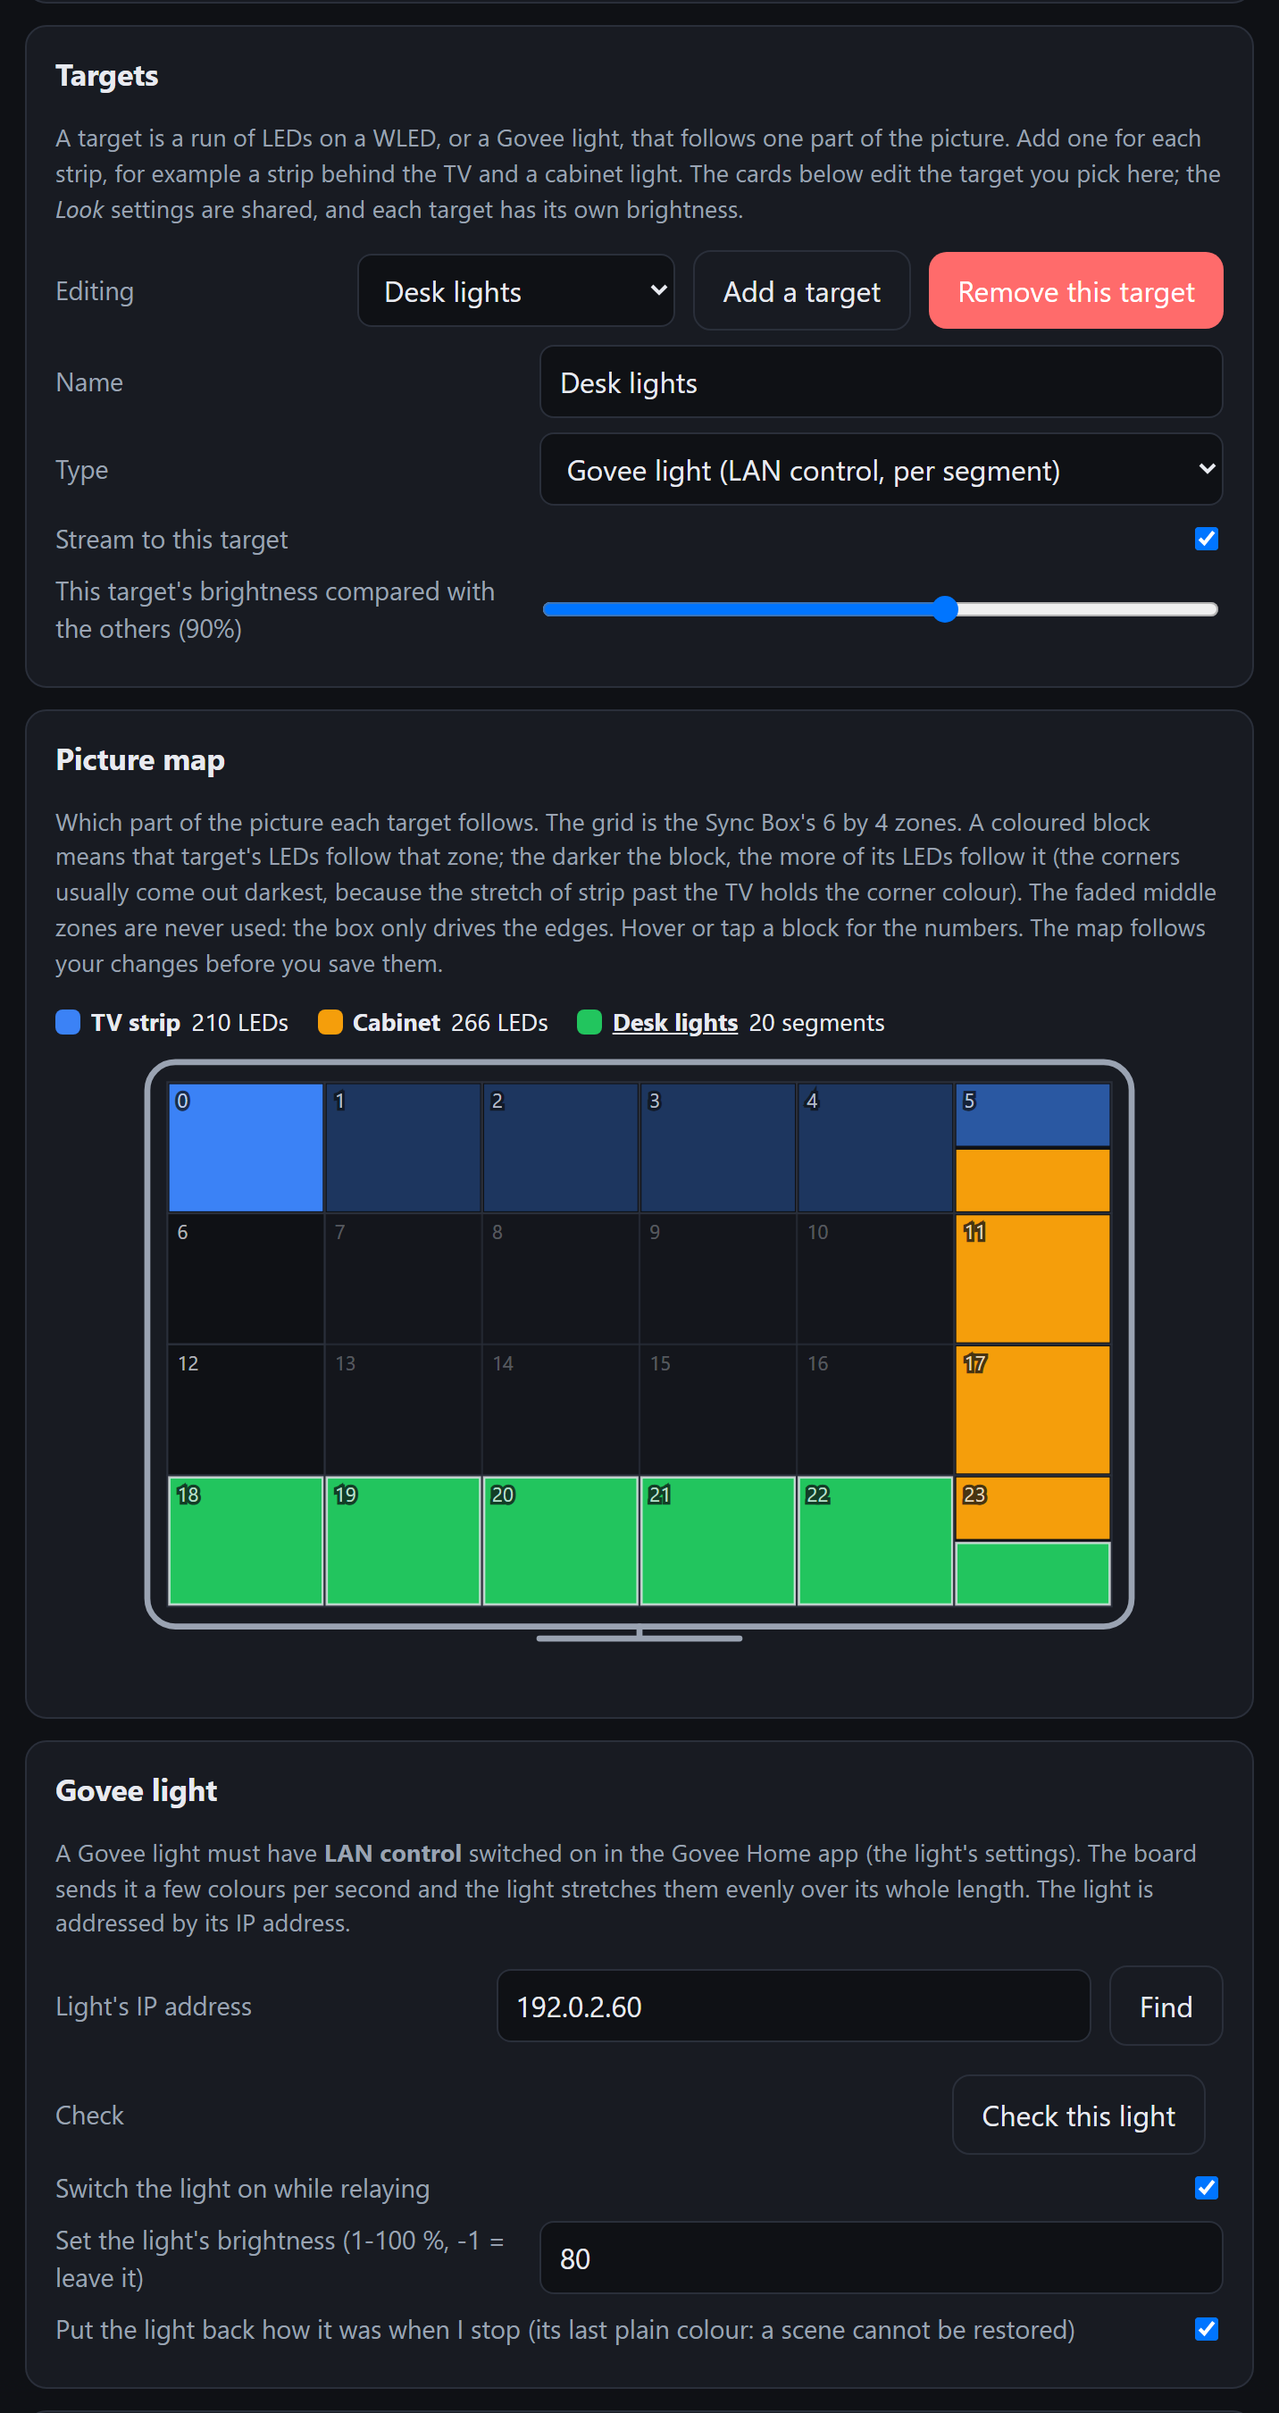
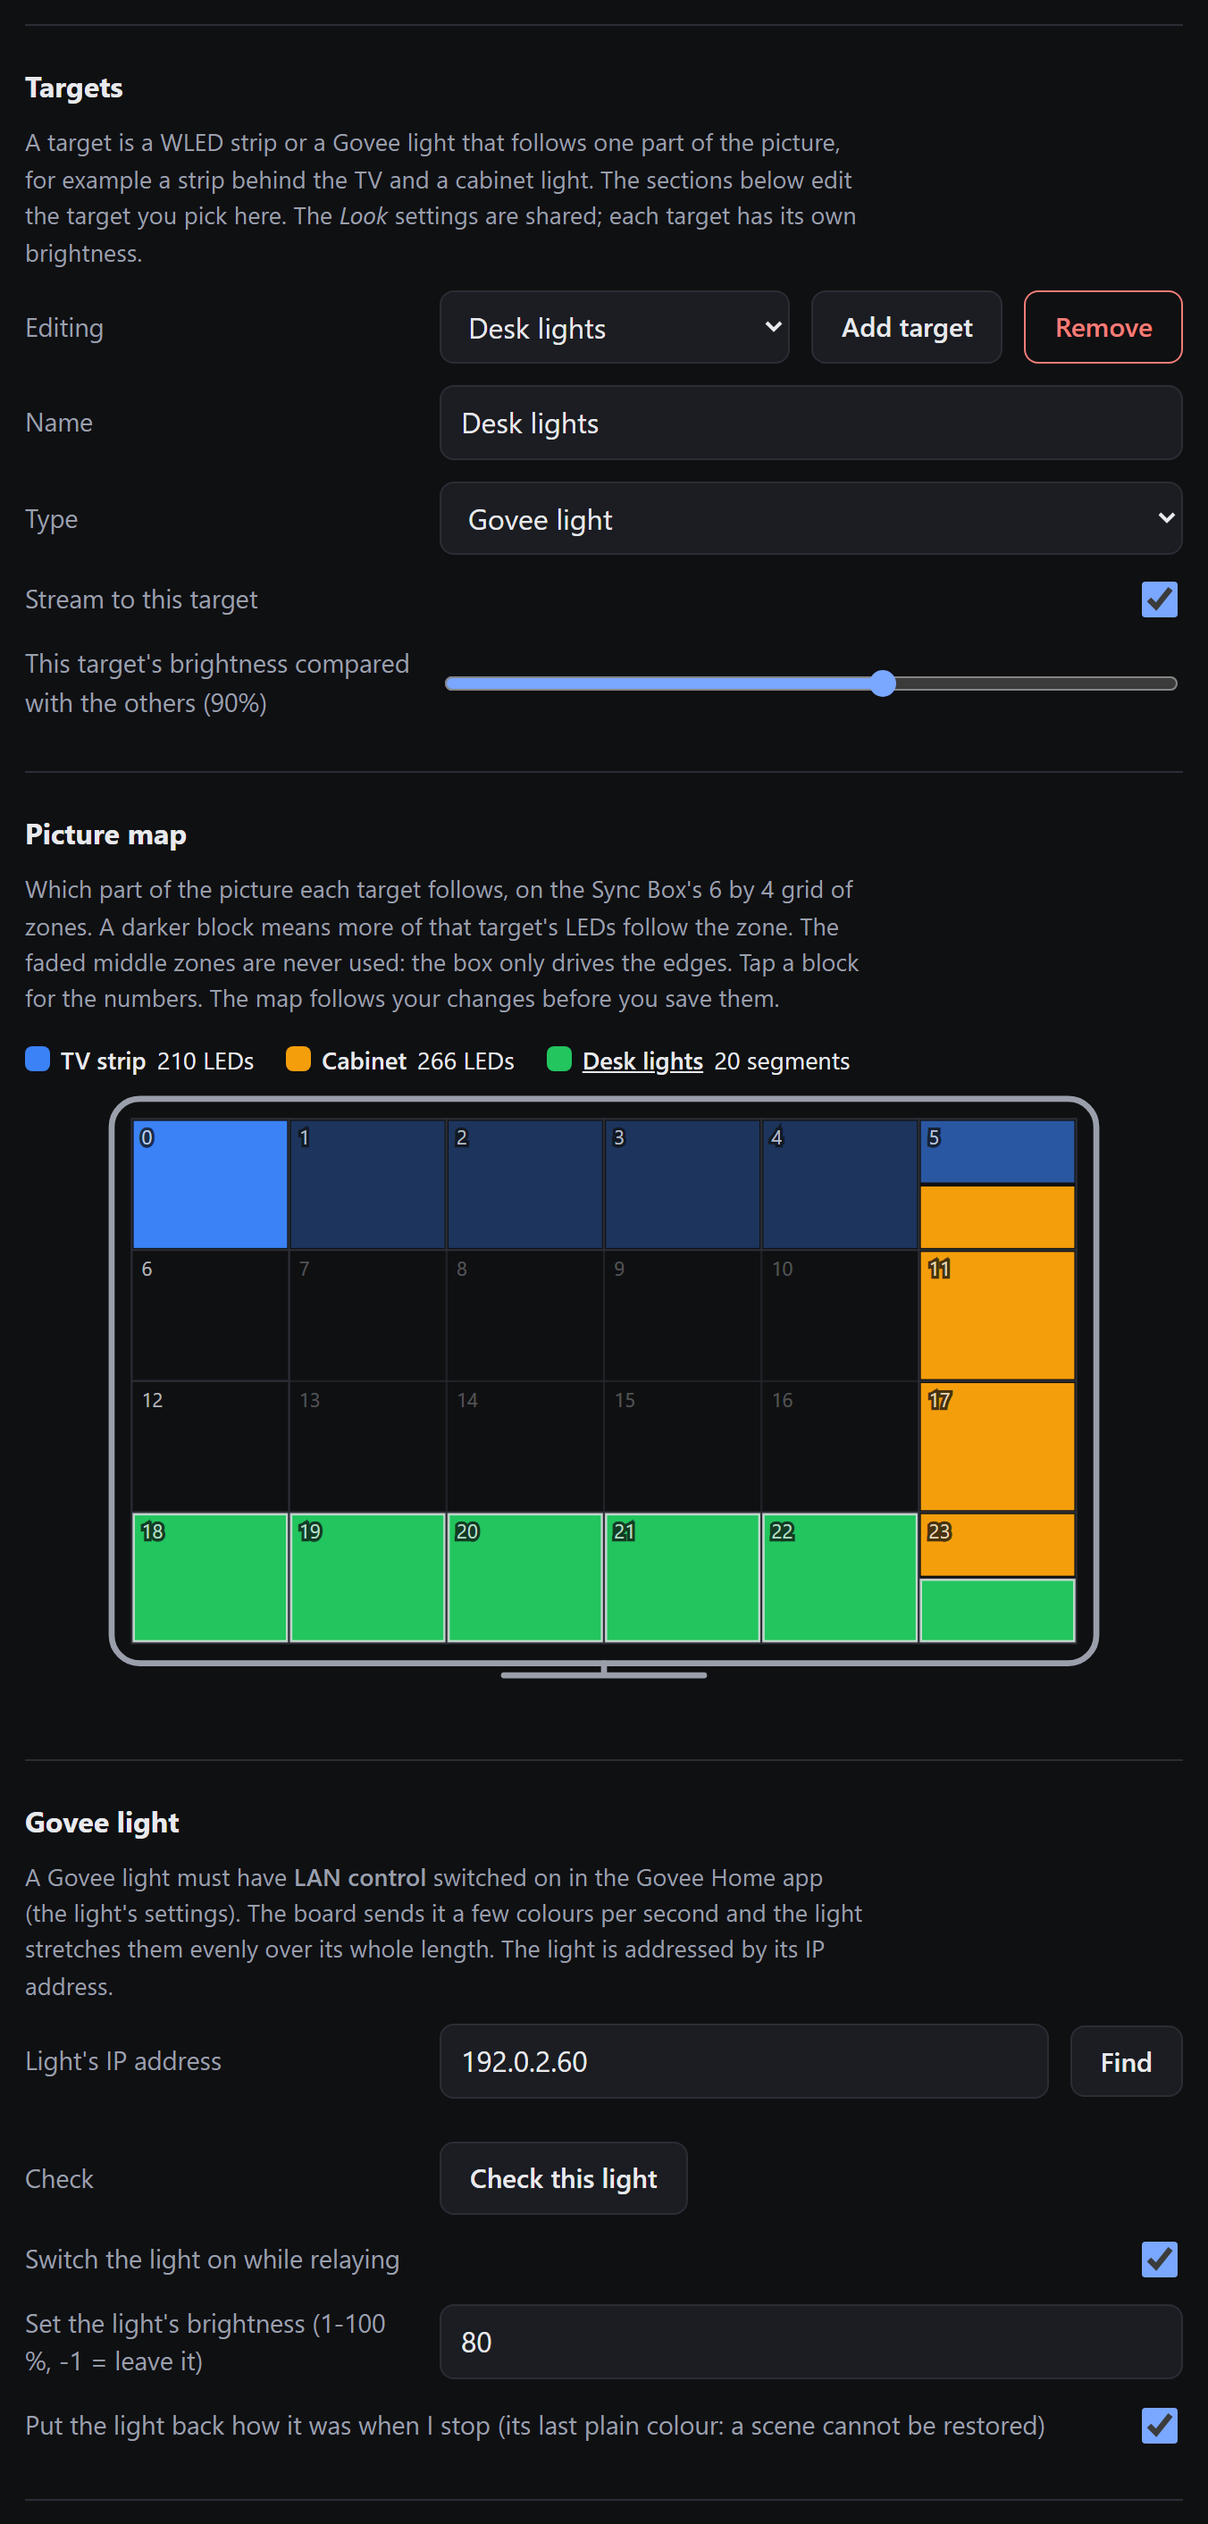
Setup page: a calmer, minimal design that works on a phone and on a desktop
- web/style.css rewritten (2 KB -> 4 KB): sections separated by a hairline instead of boxes, one column of at most 680 px, labels above full-width
  fields on a phone and beside them on a wider screen, switches keep label and tick box on one line, 16 px inputs (phones do not zoom in), visible
  keyboard focus, a dot plus a word for status instead of bordered pills, a quiet outlined danger button, system fonts, and a light and a dark theme.
  No animation, transition, shadow, gradient, web font or image, and no JavaScript change: nothing more for the board to serve or draw.
- Shorter copy where the words did nothing (Targets, Picture map), shorter type names (WLED strip / Govee light), shorter button labels (Add target /
  Remove) so the Editing row fits on one line; the Save bar respects the phone's bottom safe area.
- The README screenshots are regenerated with the new design; tools/make_screenshots.js can render at another width (FWB_SHOT_WIDTH, FWB_SHOT_OUT).

diff --git a/web/style.css b/web/style.css
@@ -1,21 +1,52 @@
-:root{--bg:#0f1115;--fg:#e8eaf0;--mut:#9aa3b2;--card:#181b22;--line:#2a2f3a;--acc:#4da3ff;--ok:#3ecf8e;--bad:#ff6b6b;--warn:#f5b942}
-@media (prefers-color-scheme:light){:root{--bg:#f4f5f8;--fg:#14171c;--mut:#566070;--card:#fff;--line:#d9dde5;--acc:#1668d6;--ok:#17915f;--bad:#c93030;--warn:#a96d00}}
+/* Fancy2WLED setup pages. Plain CSS on purpose: system fonts, no images, no animation, no shadows or gradients, so the board has almost nothing to serve
+   and the browser almost nothing to draw. Colours are variables because the picture map (an inline SVG) uses them too. */
+:root{color-scheme:dark;--bg:#0f1012;--card:#16181c;--ctl:#1b1d22;--fg:#e8e9ed;--mut:#9a9fab;--line:#2a2d34;--acc:#7aa7ff;--onacc:#0b1220;--ok:#4cc38a;--bad:#f27d78;--warn:#e3b341}
+@media (prefers-color-scheme:light){:root{color-scheme:light;--bg:#f6f7f9;--card:#fff;--ctl:#fff;--fg:#15171c;--mut:#5b6270;--line:#dde0e6;--acc:#2f62d9;--onacc:#fff;--ok:#12805a;--bad:#c0392b;--warn:#8a6100}}
 *{box-sizing:border-box}
-html,body{margin:0;background:var(--bg);color:var(--fg);font:16px/1.45 system-ui,-apple-system,"Segoe UI",Roboto,sans-serif}
-main{max-width:720px;margin:0 auto;padding:16px 16px 48px}
-h1{font-size:1.35rem;margin:.2rem 0 .8rem}h2{font-size:1.05rem;margin:0 0 .6rem}
-.card{background:var(--card);border:1px solid var(--line);border-radius:12px;padding:14px 16px;margin:12px 0}
-.row{display:flex;gap:10px;flex-wrap:wrap;align-items:center;margin:.5rem 0}
-.row>label{flex:1 1 150px;color:var(--mut);font-size:.9rem}
-input,select{font:inherit;color:var(--fg);background:var(--bg);border:1px solid var(--line);border-radius:8px;padding:8px 10px;min-width:0;flex:2 1 160px}
-input[type=range]{padding:0}
-button,.btn{font:inherit;color:#fff;background:var(--acc);border:0;border-radius:10px;padding:10px 16px;cursor:pointer;text-decoration:none;display:inline-block}
-button.sec,.btn.sec{background:transparent;color:var(--fg);border:1px solid var(--line)}
-button.bad{background:var(--bad)}button:disabled{opacity:.5;cursor:default}
-.pill{display:inline-block;border-radius:99px;padding:2px 10px;font-size:.82rem;border:1px solid var(--line);color:var(--mut)}
-.pill.ok{color:var(--ok);border-color:var(--ok)}.pill.bad{color:var(--bad);border-color:var(--bad)}.pill.warn{color:var(--warn);border-color:var(--warn)}
+html{-webkit-text-size-adjust:100%}
+body{margin:0;background:var(--bg);color:var(--fg);font:15px/1.5 system-ui,-apple-system,"Segoe UI",Roboto,"Helvetica Neue",sans-serif}
+main{max-width:680px;margin:0 auto;padding:20px 16px calc(40px + env(safe-area-inset-bottom))}
+h1{font-size:1.25rem;font-weight:650;letter-spacing:-.01em;margin:0 0 6px}
+h2{font-size:1rem;font-weight:650;margin:0 0 8px}
+h3{font-size:.92rem;font-weight:600;margin:20px 0 4px}
+p{margin:.45rem 0;max-width:64ch}
+b{font-weight:600}
+
+/* a section is a stretch of page with a hairline above it, not a box */
+.card{border-top:1px solid var(--line);padding:22px 0 16px;margin:0}
+#stat{border-top:0;padding:4px 0 18px}
+#boxWarn{border:1px solid var(--bad);border-radius:10px;padding:14px 16px;margin:8px 0 16px}
+#boxWarn h2{margin-bottom:4px}
+
+/* a row: the label above its control on a phone, beside it on a wider screen; a switch keeps its label and the switch on one line */
+.row{display:flex;flex-wrap:wrap;align-items:center;gap:8px 12px;margin:12px 0}
+.row>label{flex:1 1 100%;color:var(--mut);font-size:.9rem}
+.row:has(>input[type=checkbox]){flex-wrap:nowrap;justify-content:space-between}
+.row:has(>input[type=checkbox])>label{flex:1 1 auto}
+@media (min-width:600px){.row>label{flex:0 0 220px}}
+
+input,select{font:inherit;font-size:16px;color:var(--fg);background:var(--ctl);border:1px solid var(--line);border-radius:8px;padding:8px 11px;min-height:40px;min-width:0;flex:1 1 180px}
+input[type=checkbox]{flex:0 0 auto;width:20px;height:20px;min-height:0;padding:0;accent-color:var(--acc)}
+input[type=range]{padding:0;min-height:28px;background:none;border:0;accent-color:var(--acc)}
+input[type=file]{padding:6px 8px}
+progress{width:100%;height:8px;accent-color:var(--acc)}
+:focus-visible{outline:2px solid var(--acc);outline-offset:2px}
+
+button,.btn{font:inherit;font-weight:550;color:var(--onacc);background:var(--acc);border:1px solid transparent;border-radius:8px;padding:8px 16px;min-height:40px;cursor:pointer;text-decoration:none;display:inline-flex;align-items:center;justify-content:center}
+button:hover,.btn:hover{filter:brightness(1.08)}
+button.sec,.btn.sec{background:var(--ctl);color:var(--fg);border-color:var(--line)}
+button.sec:hover,.btn.sec:hover{border-color:var(--mut);filter:none}
+button.bad{background:transparent;color:var(--bad);border-color:var(--bad)}
+button:disabled{opacity:.45;cursor:default;filter:none}
+
+/* a status is a dot and a word, not a bordered pill */
+.pill{display:inline-flex;align-items:center;gap:6px;margin:0 14px 4px 0;font-size:.85rem;color:var(--mut)}
+.pill::before{content:"";width:8px;height:8px;border-radius:50%;background:currentColor;flex:0 0 auto}
+.pill.ok{color:var(--ok)}.pill.bad{color:var(--bad)}.pill.warn{color:var(--warn)}
+#stat .row{margin:0 0 6px}
+
 .mut{color:var(--mut)}.small{font-size:.85rem}.err{color:var(--bad)}.ok{color:var(--ok)}.warn{color:var(--warn)}
-.bar{height:8px;background:var(--line);border-radius:99px;overflow:hidden}.bar>i{display:block;height:100%;width:0;background:var(--acc);transition:width .3s}
-code{background:var(--bg);border:1px solid var(--line);border-radius:6px;padding:1px 6px}
+.bar{height:8px;background:var(--line);border-radius:99px;overflow:hidden}.bar>i{display:block;height:100%;width:0;background:var(--acc)}
+code{font:.85em ui-monospace,SFMono-Regular,Menlo,Consolas,monospace;background:var(--ctl);border:1px solid var(--line);border-radius:5px;padding:1px 5px}
 ul{margin:.3rem 0 .3rem 1.2rem;padding:0}
 .hidden{display:none!important}

diff --git a/web/index.html b/web/index.html
@@ -5,13 +5,13 @@
 <link rel="stylesheet" href="/style.css">
 <style>
 .nudge{display:inline-flex;gap:4px;flex:0 0 auto}
-.nudge button{padding:6px 9px;font-size:.85rem}
+.nudge button{padding:4px 10px;min-height:34px;font-size:.85rem}
 .num{display:flex;gap:8px;align-items:center;flex-wrap:wrap;flex:2 1 220px}
 .num input{flex:1 1 90px}
 input[type=range].wide{width:100%}
-.sticky{position:sticky;bottom:0;background:var(--bg);padding:8px 0;border-top:1px solid var(--line);margin-top:12px}
-.sec h3{font-size:.95rem;margin:1rem 0 .3rem}
-.legend{display:flex;gap:6px 16px;flex-wrap:wrap;margin:.3rem 0}
+.sticky{position:sticky;bottom:0;background:var(--bg);padding:10px 0 calc(10px + env(safe-area-inset-bottom));border-top:1px solid var(--line);margin-top:8px}
+.sec h3{font-size:.92rem;margin:22px 0 4px}
+.legend{display:flex;gap:6px 18px;flex-wrap:wrap;margin:14px 0 6px}
 .chip{display:inline-flex;align-items:center;gap:6px}
 .sw{width:14px;height:14px;border-radius:4px;display:inline-block;flex:0 0 auto}
 </style></head><body><main>
@@ -42,17 +42,17 @@ input[type=range].wide{width:100%}
 <div id="main" class="hidden">
 <div class="card">
   <h2>Targets</h2>
-  <p class="small mut">A target is a run of LEDs on a WLED, or a Govee light, that follows one part of the picture. Add one for each strip, for example a strip behind the TV and a cabinet light. The cards below edit the target you pick here; the <i>Look</i> settings are shared, and each target has its own brightness.</p>
-  <div class="row"><label for="tSel">Editing</label><select id="tSel"></select><button id="tAdd" class="sec">Add a target</button><button id="tDel" class="bad">Remove this target</button></div>
+  <p class="small mut">A target is a WLED strip or a Govee light that follows one part of the picture, for example a strip behind the TV and a cabinet light. The sections below edit the target you pick here. The <i>Look</i> settings are shared; each target has its own brightness.</p>
+  <div class="row"><label for="tSel">Editing</label><select id="tSel" style="flex:1 1 120px"></select><button id="tAdd" class="sec">Add target</button><button id="tDel" class="bad">Remove</button></div>
   <div class="row"><label for="tName">Name</label><input id="tName" maxlength="24" data-live="1"></div>
-  <div class="row"><label for="tKind">Type</label><select id="tKind" data-live="1"><option value="wled">WLED (a strip running WLED)</option><option value="govee">Govee light (LAN control, per segment)</option></select></div>
+  <div class="row"><label for="tKind">Type</label><select id="tKind" data-live="1"><option value="wled">WLED strip</option><option value="govee">Govee light</option></select></div>
   <div class="row"><label for="tOn">Stream to this target</label><input id="tOn" type="checkbox" style="flex:0 0 auto" data-live="1"></div>
   <div class="row"><label for="tTrim">This target's brightness compared with the others <span id="tTrimV"></span></label><input id="tTrim" type="range" min="0" max="1.5" step="0.05" data-live="1"></div>
 </div>
 
 <div class="card" id="mapCard">
   <h2>Picture map</h2>
-  <p class="small mut">Which part of the picture each target follows. The grid is the Sync Box's 6 by 4 zones. A coloured block means that target's LEDs follow that zone; the darker the block, the more of its LEDs follow it (the corners usually come out darkest, because the stretch of strip past the TV holds the corner colour). The faded middle zones are never used: the box only drives the edges. Hover or tap a block for the numbers. The map follows your changes before you save them.</p>
+  <p class="small mut">Which part of the picture each target follows, on the Sync Box's 6 by 4 grid of zones. A darker block means more of that target's LEDs follow the zone. The faded middle zones are never used: the box only drives the edges. Tap a block for the numbers. The map follows your changes before you save them.</p>
   <div id="mapLegend" class="legend small"></div>
   <svg id="mapSvg" viewBox="0 0 500 312" role="img" aria-label="Which zones of the picture each target follows" style="width:100%;max-width:560px;display:block;margin:8px auto"></svg>
 </div>

diff --git a/tools/make_screenshots.js b/tools/make_screenshots.js
@@ -14,7 +14,8 @@ const CANDIDATES = [
   '/Applications/Google Chrome.app/Contents/MacOS/Google Chrome'];
 const exe = CANDIDATES.find(p => fs.existsSync(p));
 if (!exe) { console.log('no Chromium-based browser found'); process.exit(1); }
-const OUT = path.join(__dirname, '..', 'docs', 'images');
+const OUT = process.env.FWB_SHOT_OUT || path.join(__dirname, '..', 'docs', 'images');      // FWB_SHOT_OUT / FWB_SHOT_WIDTH: for trying a design at another size
+const WIDTH = parseInt(process.env.FWB_SHOT_WIDTH || '760', 10);
 const PORT = 9341;
 const sleep = ms => new Promise(r => setTimeout(r, ms));
 
@@ -57,7 +58,7 @@ async function cdp(wsUrl) {
     const t = await (await fetch('http://127.0.0.1:' + PORT + '/json/new?' + encodeURIComponent(base + '/'), { method: 'PUT' })).json();
     const c = await cdp(t.webSocketDebuggerUrl);
     await c.send('Page.enable'); await c.send('Page.bringToFront'); await c.send('Emulation.setFocusEmulationEnabled', { enabled: true });
-    await c.send('Emulation.setDeviceMetricsOverride', { width: 760, height: 1200, deviceScaleFactor: 2, mobile: false });
+    await c.send('Emulation.setDeviceMetricsOverride', { width: WIDTH, height: 1200, deviceScaleFactor: 2, mobile: false });
     const scheme = async v => { await c.send('Emulation.setEmulatedMedia', { features: [{ name: 'prefers-color-scheme', value: v }] }); await sleep(300); };
     const waitStatus = async () => { await sleep(3200); };      // the page polls the status every 2.5 s
     await scheme('dark');
@@ -72,7 +73,7 @@ async function cdp(wsUrl) {
       const pad = 14;
       const res = await c.send('Page.captureScreenshot', { format: 'png', captureBeyondViewport: true, clip: { x: Math.max(0, r.x - pad), y: Math.max(0, r.y - pad), width: r.w + 2 * pad, height: r.h + 2 * pad, scale: 1 } });
       fs.writeFileSync(path.join(OUT, file), Buffer.from(res.result.data, 'base64'));
-      console.log('wrote docs/images/' + file + '  (' + Math.round(fs.statSync(path.join(OUT, file)).size / 1024) + ' KB)');
+      console.log('wrote ' + path.join(OUT, file) + '  (' + Math.round(fs.statSync(path.join(OUT, file)).size / 1024) + ' KB)');
     }
     const select = async i => { await c.ev("var s=document.getElementById('tSel');s.value='" + i + "';s.dispatchEvent(new Event('change',{bubbles:true}));1"); await sleep(900); await waitStatus(); };
 

diff --git a/README.md b/README.md
@@ -64,7 +64,7 @@ The pictures are regenerated from the real page with `node tools/make_screenshot
    itself (otherwise browse to `http://192.168.5.5`). Choose your Wi-Fi, enter the password. The board restarts and joins it.
 3. **Open the setup page.** From any device on that network: **`http://fancy2wled.local`** (or the IP your router shows).
 4. **WLED:** press **Find** (or type its address), then **Check this WLED**. The **Targets** card at the top picks which target you are
-   editing; press **Add a target** for each further strip or WLED (up to four) and give it a name.
+   editing; press **Add target** for each further strip or WLED (up to four) and give it a name.
 5. **Your LEDs** (for the target you picked; the **Picture map** above shows which part of the screen each target will follow): say *where* they are (above the TV, below it, left, right, or all the way around), how long the run is (first LED +
    number of LEDs; e.g. the first 210 LEDs of the strip: first LED 0, length 210) and which part of the run covers the TV (e.g. LEDs
    83 to 163). Above the TV uses the *top* of the picture's colour map, below uses the *bottom*, left/right use that edge. Not sure

diff --git a/docs/GOVEE.md b/docs/GOVEE.md
@@ -6,7 +6,7 @@ and the light stretches them evenly over its whole length. Developed and tested 
 ## Set up
 
 1. In the Govee Home app, switch on **LAN control** for the light (without it the light does not answer on the network).
-2. Setup page > *Targets* > **Add a target** > *Type*: **Govee light**. Press **Find** (a scan takes about 3 seconds) or type the light's **IP address**
+2. Setup page > *Targets* > **Add target** > *Type*: **Govee light**. Press **Find** (a scan takes about 3 seconds) or type the light's **IP address**
    (give it a fixed address in your router). **Check this light** shows the model, firmware and whether it is on.
 3. Pick **Where the LEDs are** (the edge of the picture the light follows, or all the way around) and the **number of segments** (1 to 60, 20 is a good start;
    the light has its own number of real segments, so going far beyond it gains nothing). Entry 0 is the light's **right-hand end** as seen from the front:
